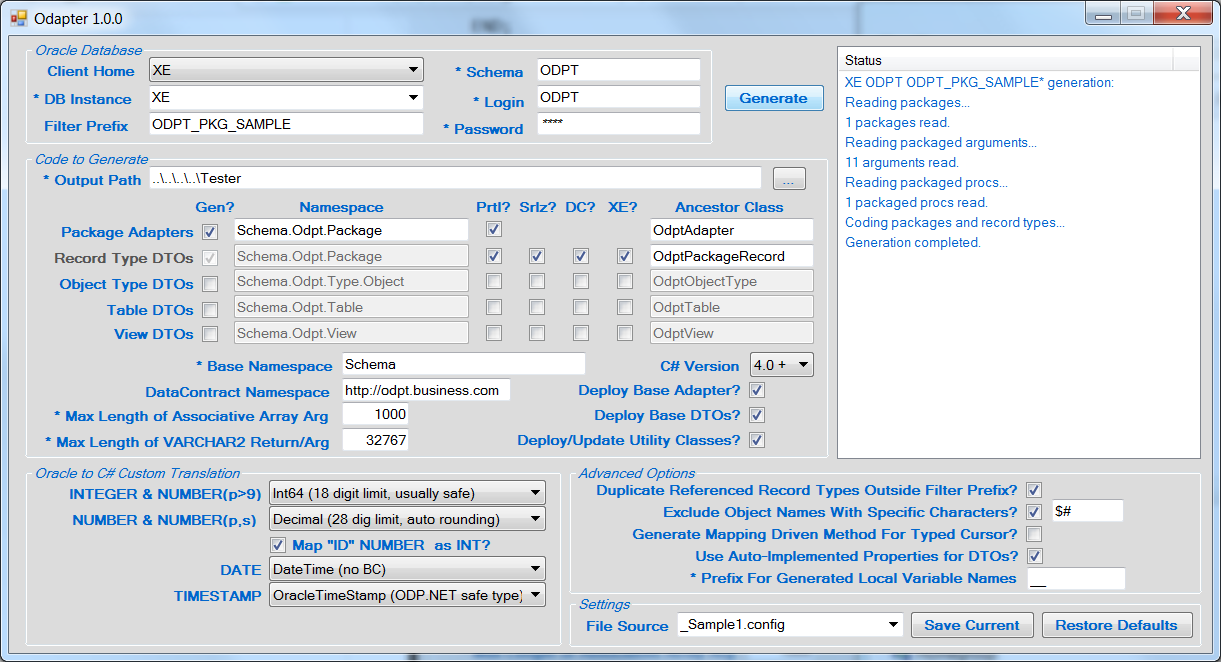
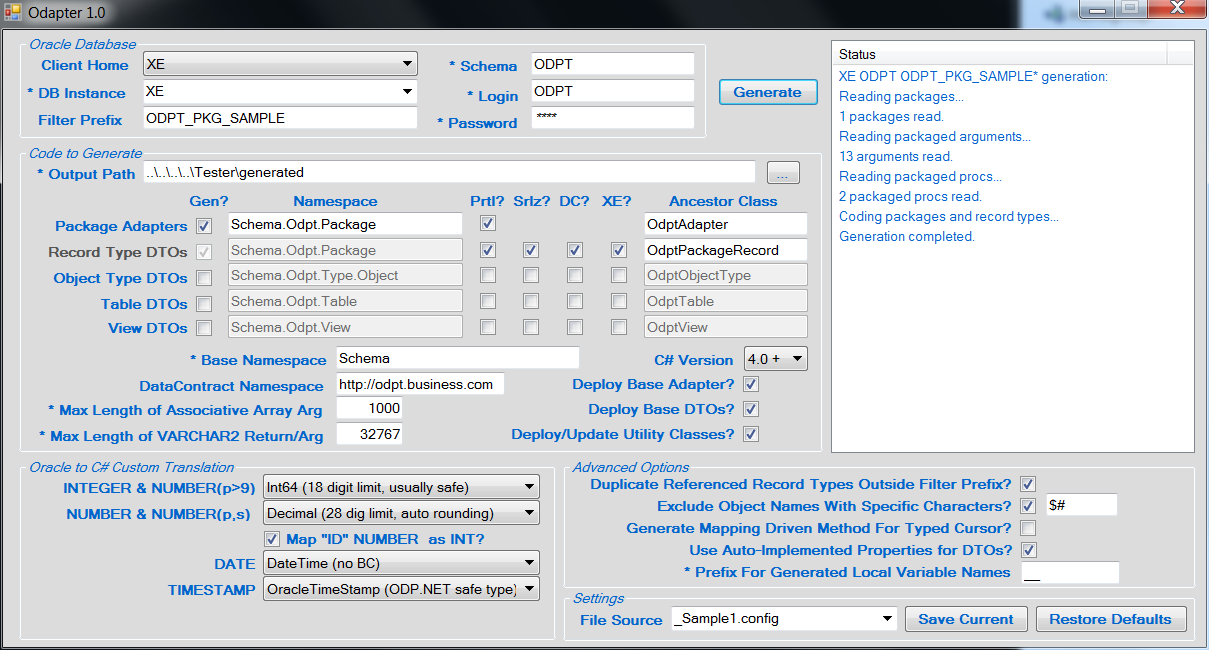
Add sample code for untyped result set

Changed region(s): [[0.0, 0.0, 1.0, 1.0]]

diff --git a/Tester/Sample.cs b/Tester/Sample.cs
@@ -21,20 +21,55 @@
 using System;
 using System.Collections.Generic;
 using System.Diagnostics;
+using System.Data;
 using Schema.Odpt.Package;
 
 namespace Odapter.Sample {
     public class Sample {
+        private const String HELLO = "Hello", GOODBYE = "Goodbye";
+
+        // declare class dervied from record type DTO package
+        private class MyClassDerived : OdptPkgSample.TTableBigPartial { 
+            public String      StringPropertyExtra { get; set; }    // custom property
+            public List<Int32> Int32ListPropertyExtra { get; set; } // custom property
+        }
+
+        // declare custom class to map only 4 columns; properties for the Date and Timestap columns will be excluded
+        private class MyClassOriginal {
+            public Int64? Id { get; set; }                          // maps to id column
+            public Int64? ColInteger { get; set; }                  // maps to col_integer column
+            public Decimal? ColNumber { get; set; }                 // maps to col_number column
+            public String ColVarchar2Max { get; set; }              // maps to col_varchar2_max column
+            public String StringPropertyExtra { get; set; }         // custom property
+            public List<Int32> Int32ListPropertyExtra { get; set; } // custom property
+        }
+
         public void Test() {
-            uint?       rowLimit = 10;
+            uint?       rowLimit = 25;
+            Int64?      pInInt64 = 100000000000000;
             Decimal?    pInDecimal = 10.0M;
-            String      pInOutString = "Hello";
+            String      pInOutString = HELLO;
             DateTime?   pOutDate;
 
-            List<OdptPkgSample.TTableBigPartial> retTableBigPartialList = OdptPkgSample.Instance.GetRowsTypedRet<OdptPkgSample.TTableBigPartial>(pInDecimal, ref pInOutString, out pOutDate, rowLimit, null);
-            Debug.Assert(retTableBigPartialList.Count == rowLimit);
-            Debug.Assert(pInOutString.Equals("Goodbye"));
-            Debug.Assert(pOutDate.Equals(new DateTime (1999, 12, 31)));
+            // hydrate DTO List from typed result set
+            List<MyClassDerived> myClassDerivedList = OdptPkgSample.Instance.GetRowsTypedRet<MyClassDerived>(pInDecimal, ref pInOutString, out pOutDate, rowLimit);
+            Debug.Assert(myClassDerivedList.Count == rowLimit);
+            Debug.Assert(pInOutString.Equals(GOODBYE));                 // confirm OUT arg from package function
+            Debug.Assert(pOutDate.Equals(new DateTime (1999, 12, 31))); // confirm OUT arg from package function
+
+            // hydrate DTO List from untyped result set by mapping column name to property name (default); force unmapped columns to be ignored (non-default)
+            List<MyClassOriginal> myClassOriginalList = OdptPkgSample.Instance.GetRowsUntypedRet<MyClassOriginal>(pInInt64, false, true, rowLimit);
+            Debug.Assert(myClassOriginalList.Count == rowLimit);
+
+            // hydrate Datatable from all columns in untyped result set; convert column names to DataTable captions
+            DataTable myDataTable = OdptPkgSample.Instance.GetRowsUntypedRet(pInInt64, true, rowLimit);
+            Debug.Assert(myDataTable.Rows.Count == rowLimit);
+            Debug.Assert(myDataTable.Columns[0].Caption.Equals("Id"));
+            Debug.Assert(myDataTable.Columns[1].Caption.Equals("Col Integer"));
+            Debug.Assert(myDataTable.Columns[2].Caption.Equals("Col Number"));
+            Debug.Assert(myDataTable.Columns[3].Caption.Equals("Col Varchar2 Max"));
+            Debug.Assert(myDataTable.Columns[4].Caption.Equals("Col Date"));
+            Debug.Assert(myDataTable.Columns[5].Caption.Equals("Col Timestamp"));
         }
     }
 }

diff --git a/README.md b/README.md
@@ -1,7 +1,7 @@
 Odapter - a C# code generator for Oracle packages
 ========================================
 
-Odapter generates C# adapter classes that provide maximum integration with an Oracle schema's packages. Generated DTO Lists will be hydrated from returned cursor results sets, both strongly (record type based) and weakly typed. The generated C# provides de facto compile-time resolution with Oracle packages from within the IDE. Additionally, C# DTOs can be generated for object types, tables and views.
+Odapter generates C# adapter classes that provide maximum integration with an Oracle schema's packages. Generated DTO Lists will be hydrated from returned cursor results sets, both typed (record type based) and untyped. The generated C# provides de facto compile-time resolution with Oracle packages from within the IDE. Additionally, C# DTOs can be generated for object types, tables and views.
 
 ### Minimum System Requirements
 
@@ -35,7 +35,7 @@ Odapter generates C# adapter classes that provide maximum integration with an Or
 * Configurable translation of Oracle NUMBER, DATE and TIMESTAMP types to C# (including ODP.NET safe types OracleDecimal, OracleDate, OracleTimestamp)
 * Translates Oracle IN, OUT and IN OUT parameters to C#
 * Translates Oracle optional (defaulted) parameters to C# (4.0+)
-* Translates strongly and weakly typed cursors (both as function return and OUT parameters) to C#
+* Translates typed and untyped cursors (both as function return and OUT parameters) to C#
 * Generates DTO for each object type, table, and view
 * Configurable for either auto-implemented, or protected field wrapped, DTO properties
 * Generates ancestor classes and basic schema connection code
@@ -54,12 +54,12 @@ Odapter generates C# adapter classes that provide maximum integration with an Or
 ### Run Time Features - Packages
 
 * Invokes packaged functions and stored procedures
-* Hydrates a List of (record type derived) DTOs from a returned (incl. OUT param) strongly typed cursor result set
-* Hydrates a List of DTOs from a returned weakly typed cursor result set using configurable mapping:
+* Hydrates a List of (record type derived) DTOs from a returned (incl. OUT param) typed cursor result set
+* Hydrates a List of DTOs from a returned untyped cursor result set using configurable mapping:
     - Mapping by name: column name to property name (translates underscore_delimited to PascalCase)
     - Mapping by position: column position to property attribute position (unmapped column silent fail option)
     - For performance, uses thread-safe static cache for mappings of C# DTO to Oracle result set
-* Constructs (from underlying columns) and hydrates DataTable from returned strongly or weakly typed cursor result set
+* Constructs (from underlying columns) and hydrates DataTable from returned typed or untyped cursor result set
 * Optionally limits the number of rows returned from any cursor result set
 
 ### Getting Started: Generating Code for Packages
@@ -76,13 +76,13 @@ Odapter generates C# adapter classes that provide maximum integration with an Or
 9. Add "using Schema.YourSchemaName.Package" to project files in order to access packages
 10. See Tester/Tester.cs for code examples
 
-### Code Sample #1
+### Code Sample 
 ###### Package Specification
 
 ```SQLPL
 CREATE OR REPLACE PACKAGE ODPT.odpt_pkg_sample AS
 
-    -- strongly typed cursor
+    -- typed cursor
     TYPE t_table_big_partial IS RECORD (
         id                  odpt_table_big.id%TYPE,                 -- NUMBER
         col_integer         odpt_table_big.col_integer%TYPE,        -- INTEGER
@@ -92,8 +92,12 @@ CREATE OR REPLACE PACKAGE ODPT.odpt_pkg_sample AS
         col_timestamp       odpt_table_big.col_timestamp%TYPE);     -- TIMESTAMP
     TYPE t_ref_cursor_table_big_partial IS REF CURSOR RETURN t_table_big_partial;
 	
+    -- untyped cursor 
+    TYPE t_ref_cursor IS REF CURSOR;
+    
     FUNCTION get_rows_typed_ret (p_in_number IN NUMBER, p_in_out_varchar2 IN OUT VARCHAR2, p_out_date OUT DATE) RETURN t_ref_cursor_table_big_partial;
-
+    FUNCTION get_rows_untyped_ret (p_in_integer IN INTEGER) RETURN t_ref_cursor;
+    
 END odpt_pkg_sample;
 /
 ```
@@ -116,6 +120,17 @@ CREATE OR REPLACE PACKAGE BODY ODPT.odpt_pkg_sample AS
         RETURN l_cursor;
     END;	
 
+    FUNCTION get_rows_untyped_ret (p_in_integer IN INTEGER) RETURN t_ref_cursor IS
+        l_cursor    t_ref_cursor;
+    BEGIN
+        OPEN l_cursor FOR
+        SELECT      id, col_integer, col_number, col_varchar2_max, col_date, col_timestamp
+        FROM        odpt_table_big
+        ORDER BY    id;    
+
+        RETURN l_cursor;
+    END;	
+    
 END odpt_pkg_sample;
 /
 ```
@@ -142,6 +157,7 @@ using Odapter;
 using System.Linq;
 
 namespace Schema.Odpt.Package {
+
     public partial class OdptPkgSample : Schema.Odpt.OdptAdapter {
         private OdptPkgSample() { }
         private static OdptPkgSample _instance = new OdptPkgSample();
@@ -228,8 +244,65 @@ namespace Schema.Odpt.Package {
             }
             return __ret;
         } // GetRowsTypedRet
+
+        public List<T_returnUntyped> GetRowsUntypedRet<T_returnUntyped>(Int64? pInInteger, 
+                bool mapColumnToObjectPropertyByPosition = false, bool allowUnmappedColumnsToBeExcluded = false, UInt32? optionalMaxNumberRowsToReadFromAnyCursor = null, 
+                OracleConnection optionalPreexistingOpenConnection = null)
+                where T_returnUntyped : class, new() {
+            List<T_returnUntyped> __ret = new List<T_returnUntyped>(); 
+            OracleConnection __conn = optionalPreexistingOpenConnection ?? GetConnection();
+            try {
+                using (OracleCommand __cmd = new OracleCommand("ODPT.ODPT_PKG_SAMPLE.GET_ROWS_UNTYPED_RET", __conn)) {
+                    __cmd.CommandType = CommandType.StoredProcedure;
+                    __cmd.BindByName = true;
+                    __cmd.Parameters.Add(new OracleParameter("!RETURN", OracleDbType.RefCursor, null, ParameterDirection.ReturnValue));
+                    __cmd.Parameters.Add(new OracleParameter("P_IN_INTEGER", OracleDbType.Int64, pInInteger, ParameterDirection.Input));
+
+                    OracleCommandTrace __cmdTrace = IsTracing(__cmd) ? new OracleCommandTrace(__cmd) : null;
+                    int __rowsAffected = __cmd.ExecuteNonQuery();
+                    if (!((OracleRefCursor)__cmd.Parameters["!RETURN"].Value).IsNull)
+                        using (OracleDataReader __rdr = ((OracleRefCursor)__cmd.Parameters["!RETURN"].Value).GetDataReader()) {
+                            __ret = Hydrator.ReadResult<T_returnUntyped>(__rdr, mapColumnToObjectPropertyByPosition, allowUnmappedColumnsToBeExcluded, optionalMaxNumberRowsToReadFromAnyCursor);
+                        } // using OracleDataReader
+                    if (__cmdTrace != null) TraceCompletion(__cmdTrace, __ret.Count);
+                } // using OracleCommand
+            } finally {
+                if (optionalPreexistingOpenConnection == null) {
+                    __conn.Close();
+                    __conn.Dispose();
+                }
+            }
+            return __ret;
+        } // GetRowsUntypedRet
+
+        public DataTable GetRowsUntypedRet(Int64? pInInteger, Boolean convertColumnNameToTitleCaseInCaption = false, UInt32? optionalMaxNumberRowsToReadFromAnyCursor = null, OracleConnection optionalPreexistingOpenConnection = null) {
+            DataTable __ret = null; 
+            OracleConnection __conn = optionalPreexistingOpenConnection ?? GetConnection();
+            try {
+                using (OracleCommand __cmd = new OracleCommand("ODPT.ODPT_PKG_SAMPLE.GET_ROWS_UNTYPED_RET", __conn)) {
+                    __cmd.CommandType = CommandType.StoredProcedure;
+                    __cmd.BindByName = true;
+                    __cmd.Parameters.Add(new OracleParameter("!RETURN", OracleDbType.RefCursor, null, ParameterDirection.ReturnValue));
+                    __cmd.Parameters.Add(new OracleParameter("P_IN_INTEGER", OracleDbType.Int64, pInInteger, ParameterDirection.Input));
+
+                    OracleCommandTrace __cmdTrace = IsTracing(__cmd) ? new OracleCommandTrace(__cmd) : null;
+                    int __rowsAffected = __cmd.ExecuteNonQuery();
+                    if (!((OracleRefCursor)__cmd.Parameters["!RETURN"].Value).IsNull)
+                        using (OracleDataReader __rdr = ((OracleRefCursor)__cmd.Parameters["!RETURN"].Value).GetDataReader()) {
+                            __ret = Hydrator.ReadResult(__rdr, convertColumnNameToTitleCaseInCaption, optionalMaxNumberRowsToReadFromAnyCursor);
+                        } // using OracleDataReader
+                    if (__cmdTrace != null) TraceCompletion(__cmdTrace, __ret.Rows.Count);
+                } // using OracleCommand
+            } finally {
+                if (optionalPreexistingOpenConnection == null) {
+                    __conn.Close();
+                    __conn.Dispose();
+                }
+            }
+            return __ret;
+        } // GetRowsUntypedRet
     } // OdptPkgSample
-}
+} // Schema.Odpt.Package
 ```
 
 ###### Executing Generated Code
@@ -238,20 +311,55 @@ namespace Schema.Odpt.Package {
 using System;
 using System.Collections.Generic;
 using System.Diagnostics;
+using System.Data;
 using Schema.Odpt.Package;
 
 namespace Odapter.Sample {
     public class Sample {
-        public void TestSample() {
-            uint? rowLimit = 10;
-            Decimal? pInDecimal = 10.0M;
-            String pInOutString = "Hello";
-            DateTime? pOutDate;
+        private const String HELLO = "Hello", GOODBYE = "Goodbye";
 
-            List<OdptPkgSample.TTableBigPartial> retTableBigPartialList = OdptPkgSample.Instance.GetRowsTypedRet<OdptPkgSample.TTableBigPartial>(pInDecimal, ref pInOutString, out pOutDate, rowLimit);
-            Debug.Assert(retTableBigPartialList.Count == rowLimit);
-            Debug.Assert(pInOutString.Equals("Goodbye"));
-            Debug.Assert(pOutDate.Equals(new DateTime(1999, 12, 31)));
+        // declare class dervied from record type DTO package
+        private class MyClassDerived : OdptPkgSample.TTableBigPartial { 
+            public String      StringPropertyExtra { get; set; }    // custom property
+            public List<Int32> Int32ListPropertyExtra { get; set; } // custom property
+        }
+
+        // declare custom class to map only 4 columns; properties for the Date and Timestap columns will be excluded
+        private class MyClassOriginal {
+            public Int64? Id { get; set; }                          // maps to id column
+            public Int64? ColInteger { get; set; }                  // maps to col_integer column
+            public Decimal? ColNumber { get; set; }                 // maps to col_number column
+            public String ColVarchar2Max { get; set; }              // maps to col_varchar2_max column
+            public String StringPropertyExtra { get; set; }         // custom property
+            public List<Int32> Int32ListPropertyExtra { get; set; } // custom property
+        }
+
+        public void Test() {
+            uint?       rowLimit = 25;
+            Int64?      pInInt64 = 100000000000000;
+            Decimal?    pInDecimal = 10.0M;
+            String      pInOutString = HELLO;
+            DateTime?   pOutDate;
+
+            // hydrate DTO List from typed result set
+            List<MyClassDerived> myClassDerivedList = OdptPkgSample.Instance.GetRowsTypedRet<MyClassDerived>(pInDecimal, ref pInOutString, out pOutDate, rowLimit);
+            Debug.Assert(myClassDerivedList.Count == rowLimit);
+            Debug.Assert(pInOutString.Equals(GOODBYE));                 // confirm OUT arg from package function
+            Debug.Assert(pOutDate.Equals(new DateTime (1999, 12, 31))); // confirm OUT arg from package function
+
+            // hydrate DTO List from untyped result set by mapping column name to property name (default); force unmapped columns to be ignored (non-default)
+            List<MyClassOriginal> myClassOriginalList = OdptPkgSample.Instance.GetRowsUntypedRet<MyClassOriginal>(pInInt64, false, true, rowLimit);
+            Debug.Assert(myClassOriginalList.Count == rowLimit);
+
+            // hydrate Datatable from all columns in untyped result set; convert column names to DataTable captions
+            DataTable myDataTable = OdptPkgSample.Instance.GetRowsUntypedRet(pInInt64, true, rowLimit);
+            Debug.Assert(myDataTable.Rows.Count == rowLimit);
+            Debug.Assert(myDataTable.Columns[0].Caption.Equals("Id"));
+            Debug.Assert(myDataTable.Columns[1].Caption.Equals("Col Integer"));
+            Debug.Assert(myDataTable.Columns[2].Caption.Equals("Col Number"));
+            Debug.Assert(myDataTable.Columns[3].Caption.Equals("Col Varchar2 Max"));
+            Debug.Assert(myDataTable.Columns[4].Caption.Equals("Col Date"));
+            Debug.Assert(myDataTable.Columns[5].Caption.Equals("Col Timestamp"));
         }
     }
 }
